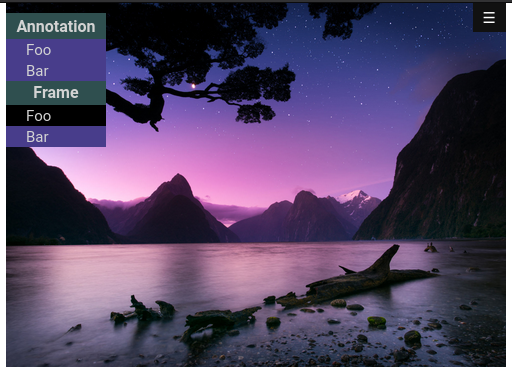
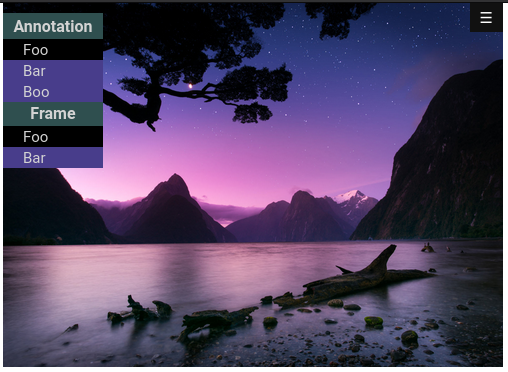
Panel Class that can add button categories.

diff --git a/style.css b/style.css
@@ -1,69 +1,3 @@
- /* The sidepanel menu */
-.sidepanel {
-    width: 0;
-    position: absolute;
-    top: 10px;
-    left: 0;
-    background-color: black;
-    overflow-x: hidden;
-    transition: width 0.25s;
-}
-
-.sidepanel ul {
-    list-style: none;
-    padding: 0;
-    margin: 0;
-}
-
-.sidepanel p {
-    padding: 2px;
-    font-weight: bold;
-    text-align: center;
-    color: lightgrey;
-    background-color: darkslategrey;
-}
-
-.sidepanel label:hover {
-    background-color: dodgerblue;
-}
-
-.sidepanel input:checked + label {
-    background-color: darkslateblue;
-}
-
-.sidepanel input {
-    visibility: hidden;
-    display: none;
-}
-
-.sidepanel label {
-    font-size: 15px;
-    color: lightgrey;
-    padding-right: 20px;
-    padding-left: 20px;
-    float: left;
-    width: 100%;
-    background-color: #111;
-    background-color: black;    
-}
-
-/* Style the button that is used to open the sidepanel */
-.openbtn {
-    position: absolute;
-    top: 0;
-    right: 0;
-    font-size: 15px;
-    cursor: pointer;
-    background-color: #111;
-    color: white;
-    padding: 5px 10px;
-    border: none;
-}
-
-.openbtn:hover {
-  background-color: #444;
-} 
-
 body {
     font-family: Roboto;
     min-width: 310px;

diff --git a/main.js b/main.js
@@ -1,20 +1,15 @@
+let panel = new ButtonPanel("panel")
+panel.buttonStyle = "PanelButton"
+panel.panelStyle = "Panel"
+panel.appendToParent(document.getElementById("container"))
+
 let annotationCategory = new ToggleButtonCategory("Annotation")
 annotationCategory.addButton("Foo")
 annotationCategory.addButton("Bar")
-annotationCategory.appendToParent(document.getElementById("panel"))
+annotationCategory.addButton("Boo")
+panel.addCategory(annotationCategory)
 
 let frameCategory = new RadioButtonCategory("Frame")
 frameCategory.addButton("Foo")
 frameCategory.addButton("Bar")
-frameCategory.appendToParent(document.getElementById("panel"))
-
-
-var panel = document.getElementById("panel")
-panel.addEventListener('click', (event) => event.stopPropagation())
-
-var cameraPanelButton = document.getElementById("cameraPanelButton")
-cameraPanelButton.addEventListener('click', (event) => {
-    event.stopPropagation()
-    panel.style.width = "100px"
-})
-document.addEventListener('click', () => panel.style.width = "0")
+panel.addCategory(frameCategory)

diff --git a/ButtonPanel.js b/ButtonPanel.js
@@ -1,0 +1,31 @@
+class ButtonPanel {
+    constructor(name, styleName) {
+        this.panel = document.createElement("form")
+        this.panel.addEventListener('click', (event) => event.stopPropagation())
+        
+        this.openButton = document.createElement("button")        
+        this.openButton.addEventListener('click', (event) => {
+            event.stopPropagation()
+            this.panel.style.width = "100px"
+        })
+        document.addEventListener('click', () => this.panel.style.width = "0")
+        this.openButton.innerHTML = "&#9776;"
+    }
+
+    set buttonStyle(styleName) {
+        this.openButton.className = styleName
+    }
+
+    set panelStyle(styleName) {
+        this.panel.className = styleName
+    }
+        
+    appendToParent(parent) {
+        parent.appendChild(this.panel)
+        parent.appendChild(this.openButton)
+    }
+
+    addCategory(category) {
+        category.appendToParent(this.panel)
+    }
+}

diff --git a/Panel.css b/Panel.css
@@ -1,0 +1,47 @@
+.Panel {
+    width: 0;
+    position: absolute;
+    top: 10px;
+    left: 0;
+    background-color: black;
+    overflow-x: hidden;
+    transition: width 0.25s;
+}
+
+.Panel ul {
+    list-style: none;
+    padding: 0;
+    margin: 0;
+}
+
+.Panel p {
+    padding: 2px;
+    font-weight: bold;
+    text-align: center;
+    color: lightgrey;
+    background-color: darkslategrey;
+}
+
+.Panel label:hover {
+    background-color: dodgerblue;
+}
+
+.Panel input:checked + label {
+    background-color: darkslateblue;
+}
+
+.Panel input {
+    visibility: hidden;
+    display: none;
+}
+
+.Panel label {
+    font-size: 15px;
+    color: lightgrey;
+    padding-right: 20px;
+    padding-left: 20px;
+    float: left;
+    width: 100%;
+    background-color: #111;
+    background-color: black;    
+}

diff --git a/index.html b/index.html
@@ -5,10 +5,9 @@
     <link rel="stylesheet" type="text/css" href="style.css"></link>
   </head>
   <body>
-    <div class="container" id="cameraContainer">
-        <form id="panel" class="sidepanel"></form>
-
-        <button class="openbtn" id="cameraPanelButton">&#9776;</button>
+    <div class="container" id="container">
+        <link rel="stylesheet" type="text/css" href="PanelButton.css"></link>
+        <link rel="stylesheet" type="text/css" href="Panel.css"></link>        
         <script src="./ButtonPanel.js"></script>
         <script src="./ButtonCategory.js"></script>
         <script src="./ToggleButtonCategory.js"></script>

diff --git a/PanelButton.css b/PanelButton.css
@@ -1,0 +1,15 @@
+.PanelButton {
+    position: absolute;
+    top: 0;
+    right: 0;
+    font-size: 15px;
+    cursor: pointer;
+    background-color: #111;
+    color: white;
+    padding: 5px 10px;
+    border: none;
+}
+
+.PanelButton:hover {
+    background-color: #444;
+} 
